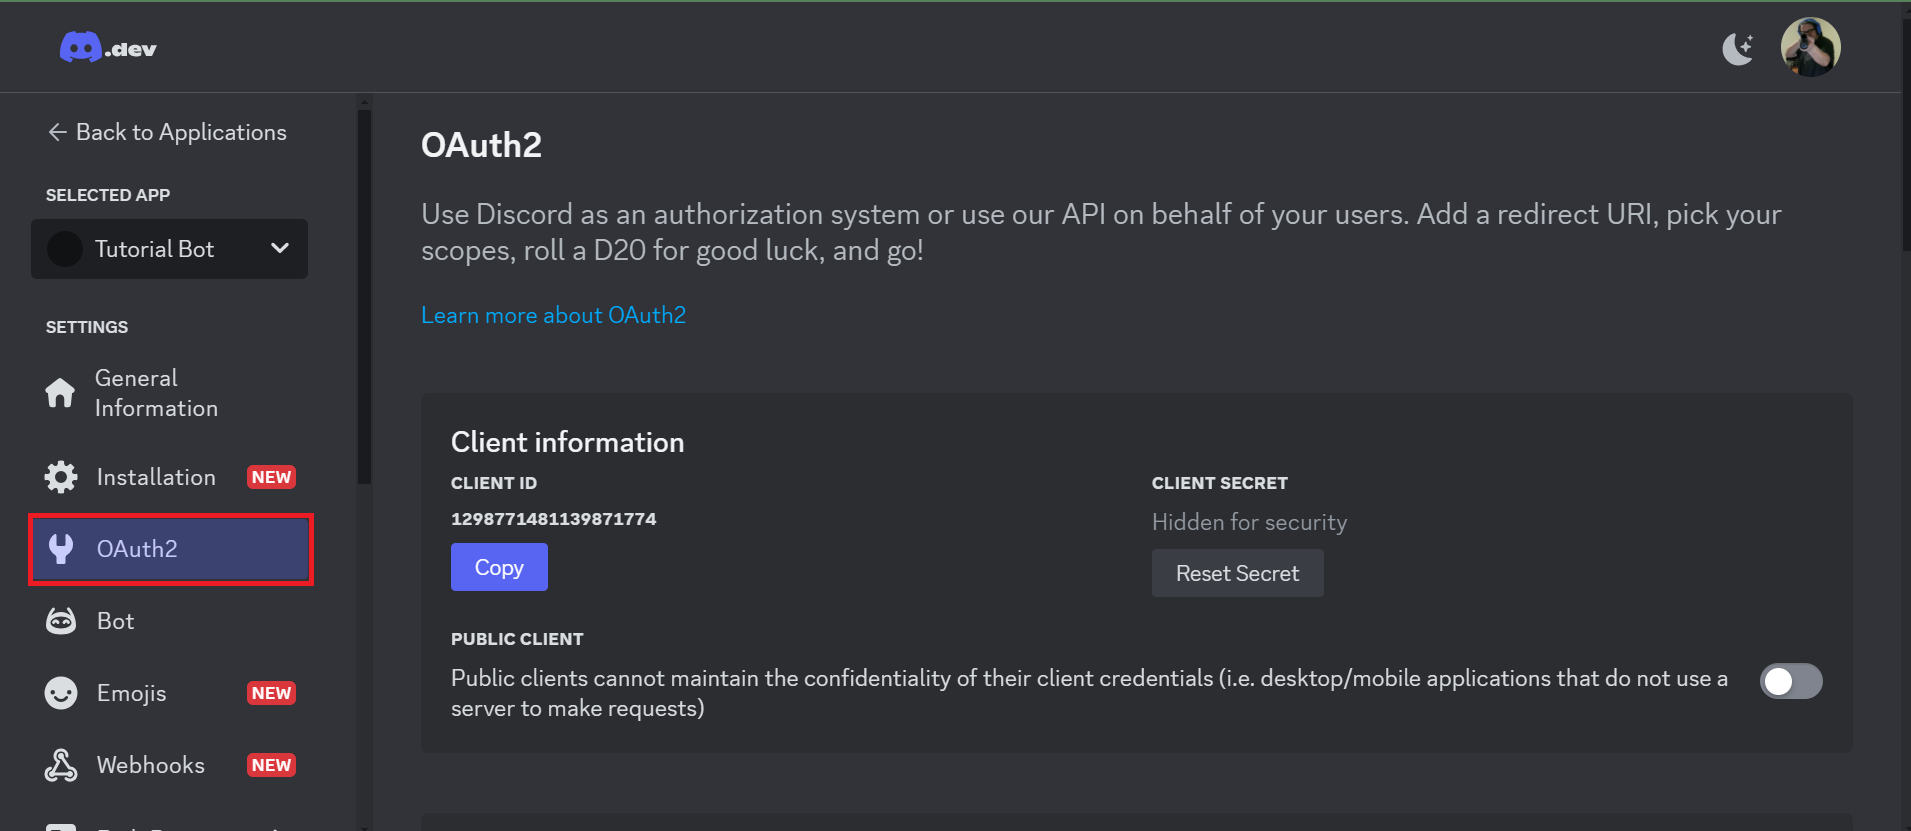
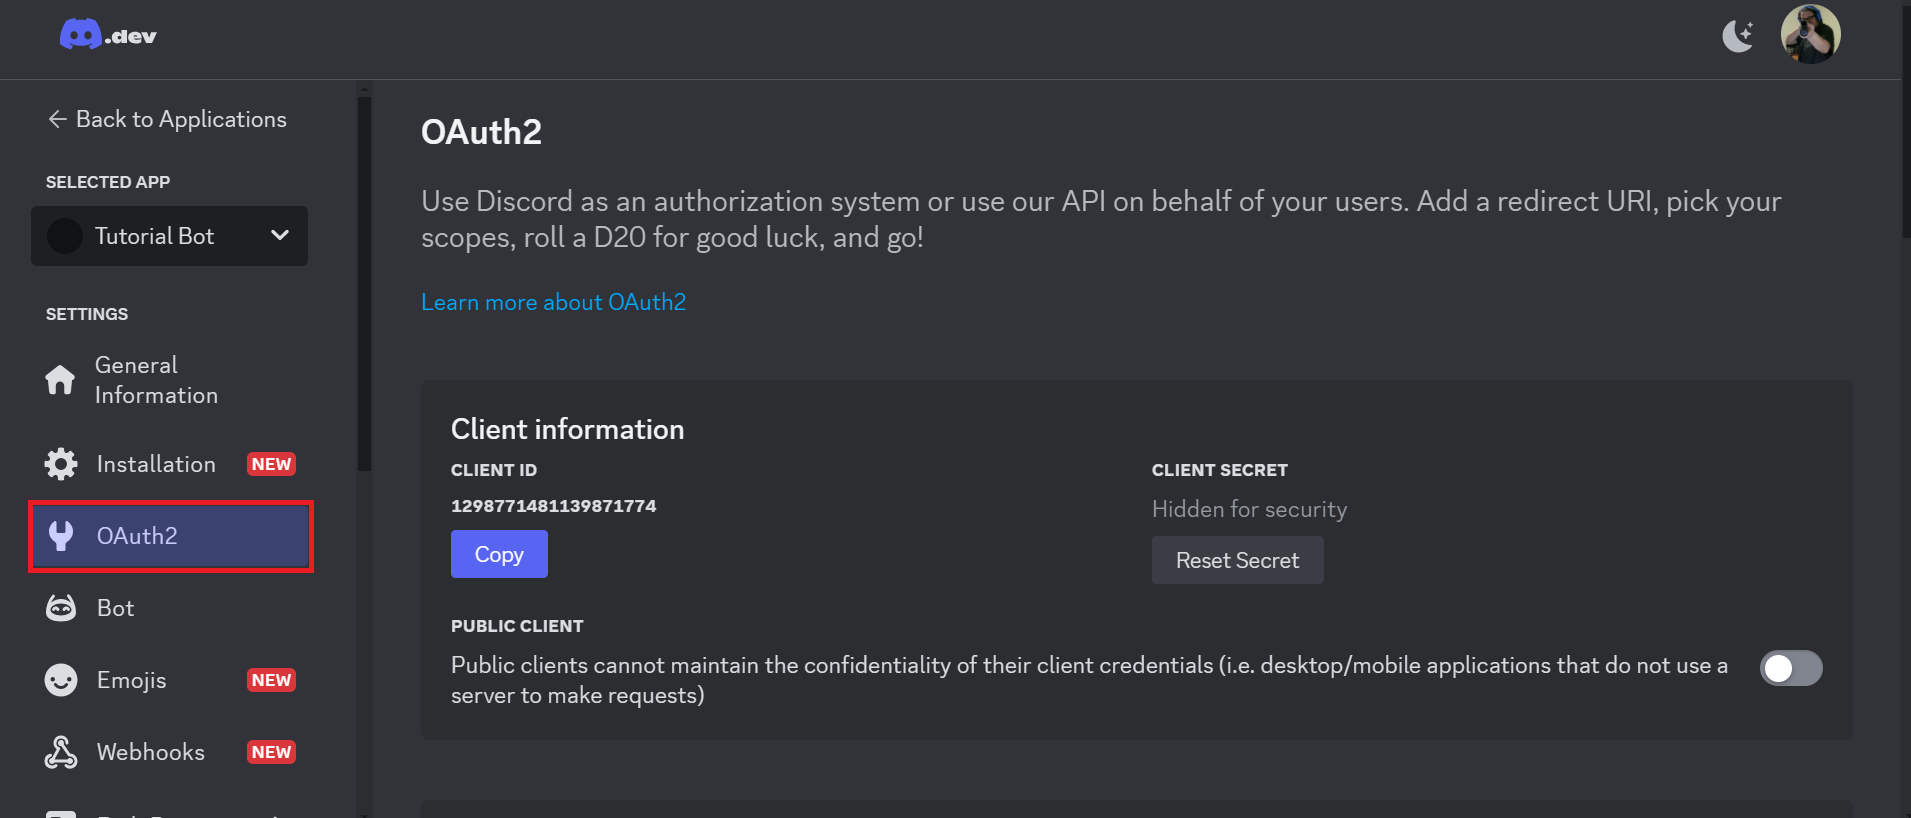
Finally fixed the picture location problem and cropped some porr screenshot issues out

diff --git a/README.md b/README.md
@@ -39,7 +39,7 @@ To make a Discord bot you will need to have somewhere to create it and Python it
 ### 8. Invite the bot to the test server you just made.
 1. Go to your [Discord developer portal](https://discord.com/developers/applications)
 2. Go to the Bot tab and scroll down to "Priveleged Gatewat Intents" and turn **ON** message content intent. ![turn this on](Pictures/message-content-intent.png)
-3. Go to the OAuth2 tab page for your bot. ![OAuth2 Location](OAuth2_Location.png)
+3. Go to the OAuth2 tab page for your bot. ![OAuth2 Location](Pictures/OAuth2_Location.png)
 4. Set the URI Redirect to "https://discordapp.com/oauth2/authorize?&client_id={yourClientIDhere}&scope=bot" ![Redirect URI](Pictures/Redirect-URI.png)
 5. Check the bot and messages.read boxes under scopes for bot. ![bot scope](Pictures/Scope-discord.png)
 6. Select the Redirect URI you just made. ![Select the Redirect URI](Pictures/Select-Redirect_URI.png)
